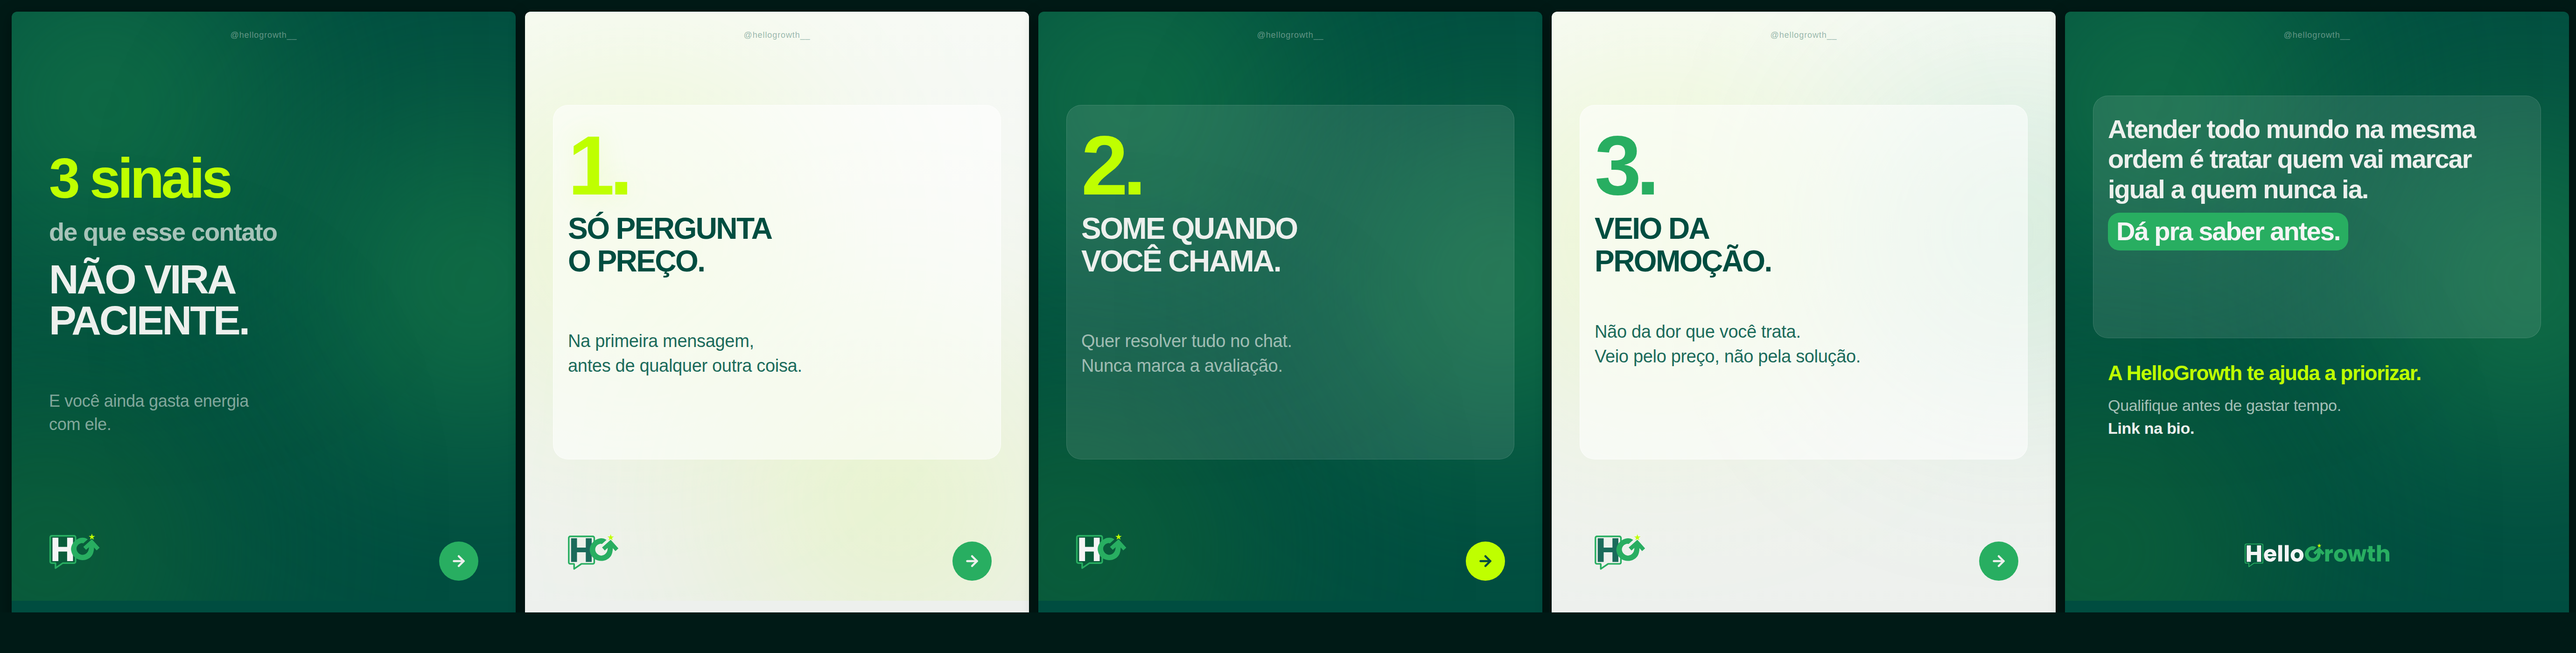
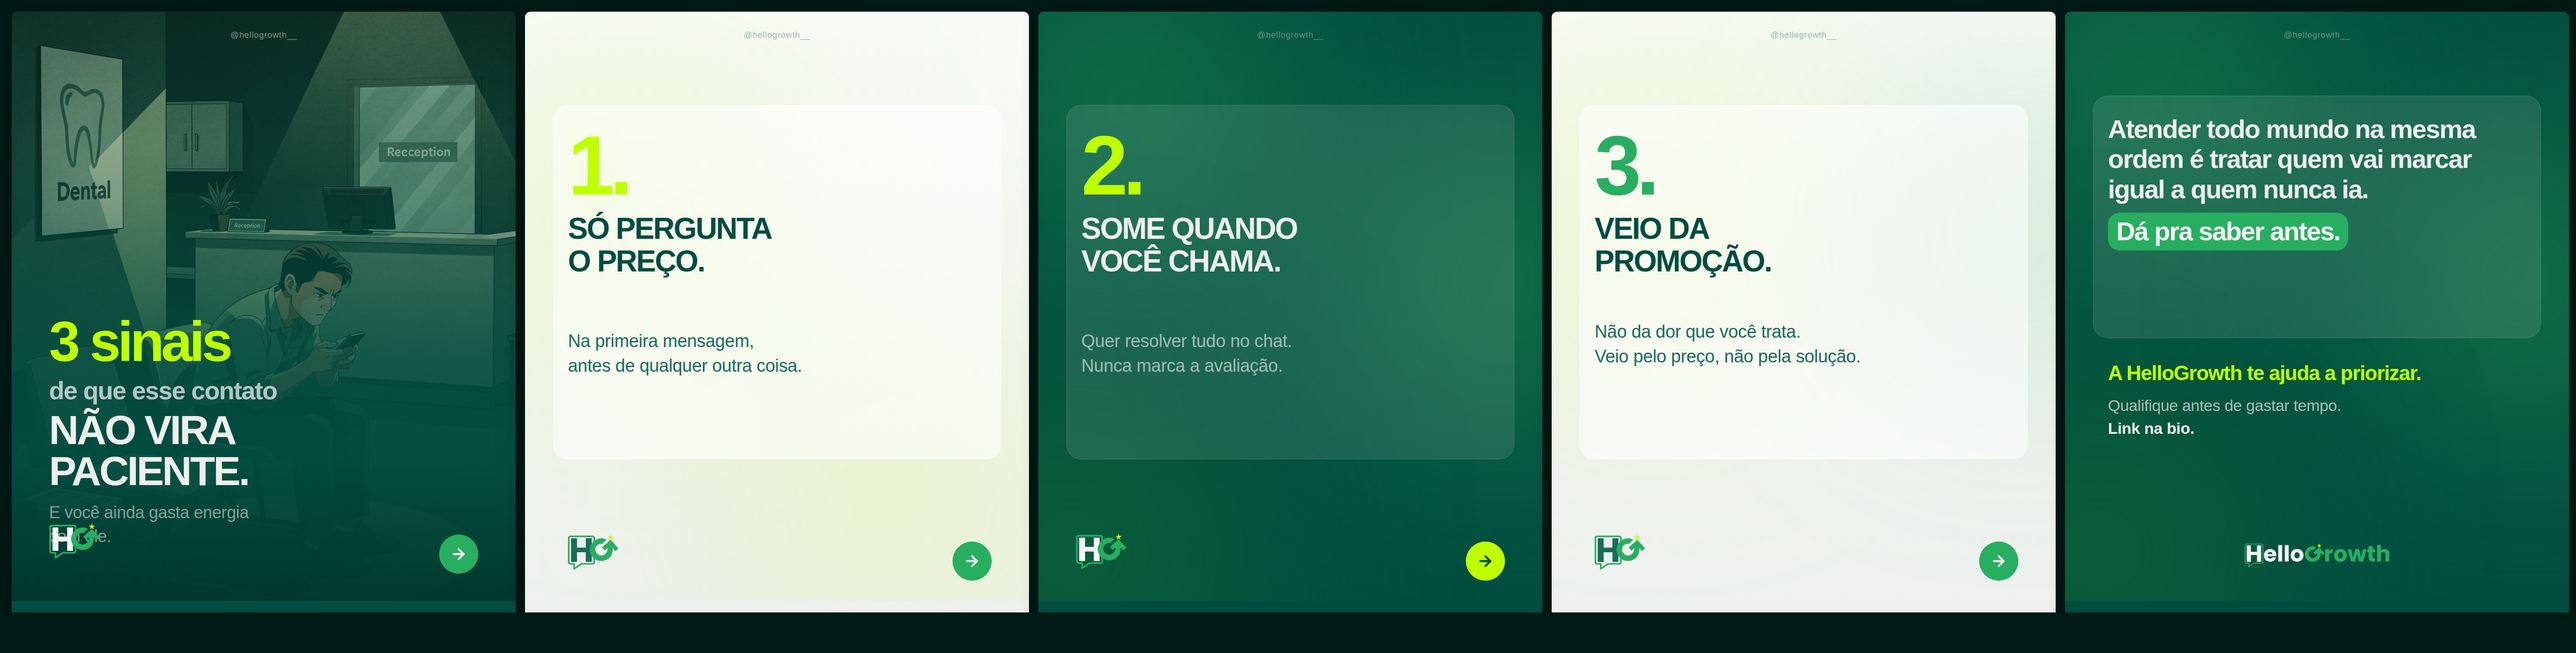
3 Sinais V2: cover with AI photo background + gradient overlay
Replace the solid dark green cover with the Gamma-generated waiting
room illustration as full background, overlaid with a bottom-heavy
gradient (30% → 95% → 100% green) so the text stays readable while
the photo adds visual context at the top.

https://claude.ai/code/session_01RXRUyw64HWp6pgoosUTsE4

diff --git a/squads/social-content/output/2026-06-08-3sinais/slides/slide-01.html b/squads/social-content/output/2026-06-08-3sinais/slides/slide-01.html
@@ -8,59 +8,74 @@
 * { margin: 0; padding: 0; box-sizing: border-box; }
 html, body { width: 1080px; height: 1350px; background: #004d40; font-family: 'Inter', sans-serif; color: #edf0ed; overflow: hidden; letter-spacing: -0.02em; }
 .card { width: 1080px; height: 1350px; position: relative; }
-.bg { position: absolute; inset: 0; background: #004d40; }
-.orb { position: absolute; border-radius: 50%; }
-.orb1 { width: 555px; height: 529px; left: -80px; top: -66px; background: #1d884a; filter: blur(250px); }
-.orb2 { width: 556px; height: 562px; left: 713px; top: 295px; background: #1d884a; filter: blur(250px); }
-.orb3 { width: 626px; height: 600px; left: -239px; top: 857px; background: #116836; filter: blur(250px); }
-.handle { position: absolute; top: 40px; left: 50%; transform: translateX(-50%); font-size: 18px; font-weight: 500; color: rgba(237,240,237,0.4); letter-spacing: 0.05em; }
+
+/* Photo background */
+.bg-photo {
+  position: absolute; inset: 0;
+  background: url('photos/cover-waiting.png') center center / cover no-repeat;
+}
+/* Dark gradient overlay from bottom */
+.overlay {
+  position: absolute; inset: 0;
+  background: linear-gradient(
+    to bottom,
+    rgba(0,77,64,0.3) 0%,
+    rgba(0,77,64,0.5) 30%,
+    rgba(0,77,64,0.85) 55%,
+    rgba(0,77,64,0.95) 70%,
+    rgba(0,50,40,1) 100%
+  );
+}
+
+.handle { position: absolute; top: 40px; left: 50%; transform: translateX(-50%); font-size: 18px; font-weight: 500; color: rgba(237,240,237,0.5); letter-spacing: 0.05em; z-index: 2; }
+
+.content { position: absolute; bottom: 0; left: 0; right: 0; padding: 0 80px 200px; z-index: 2; }
 
 .kicker {
-  position: absolute; left: 80px; top: 300px;
   font-size: 120px; font-weight: 900;
   color: #bfff00; line-height: 0.95;
   letter-spacing: -0.055em;
 }
 .mid {
-  position: absolute; left: 80px; top: 440px;
   font-size: 54px; font-weight: 600;
-  color: rgba(237,240,237,0.7);
+  color: rgba(237,240,237,0.75);
   letter-spacing: -0.03em;
   line-height: 1.2;
+  margin-top: 16px;
 }
 .headline {
-  position: absolute; left: 80px; top: 530px;
   font-size: 88px; font-weight: 900;
   color: #edf0ed; line-height: 1;
   letter-spacing: -0.045em;
   text-transform: uppercase;
+  margin-top: 8px;
 }
 .sub {
-  position: absolute; left: 80px; top: 810px;
   font-size: 36px; font-weight: 500;
   color: rgba(237,240,237,0.55);
   line-height: 1.4;
+  margin-top: 20px;
 }
 
-.logo-wrap { position: absolute; left: 33px; top: 1074px; }
+.logo-wrap { position: absolute; left: 33px; bottom: 130px; z-index: 2; }
 .logo-wrap img { height: 164px; }
-.arrow-wrap { position: absolute; right: 80px; bottom: 130px; }
+.arrow-wrap { position: absolute; right: 80px; bottom: 145px; z-index: 2; }
 .arrow-circle { width: 84px; height: 84px; background: #28ae61; border-radius: 50%; display: flex; align-items: center; justify-content: center; }
 .arrow-circle svg { width: 36px; height: 36px; }
 </style>
 </head>
 <body>
 <div class="card">
-  <div class="bg"></div>
-  <div class="orb orb1"></div>
-  <div class="orb orb2"></div>
-  <div class="orb orb3"></div>
+  <div class="bg-photo"></div>
+  <div class="overlay"></div>
   <div class="handle">@hellogrowth__</div>
 
-  <div class="kicker">3 sinais</div>
-  <div class="mid">de que esse contato</div>
-  <div class="headline">NÃO VIRA<br>PACIENTE.</div>
-  <div class="sub">E você ainda gasta energia<br>com ele.</div>
+  <div class="content">
+    <div class="kicker">3 sinais</div>
+    <div class="mid">de que esse contato</div>
+    <div class="headline">NÃO VIRA<br>PACIENTE.</div>
+    <div class="sub">E você ainda gasta energia<br>com ele.</div>
+  </div>
 
   <div class="logo-wrap"><img src="assets/logo-symbol-light.svg" alt="HG"></div>
   <div class="arrow-wrap">
